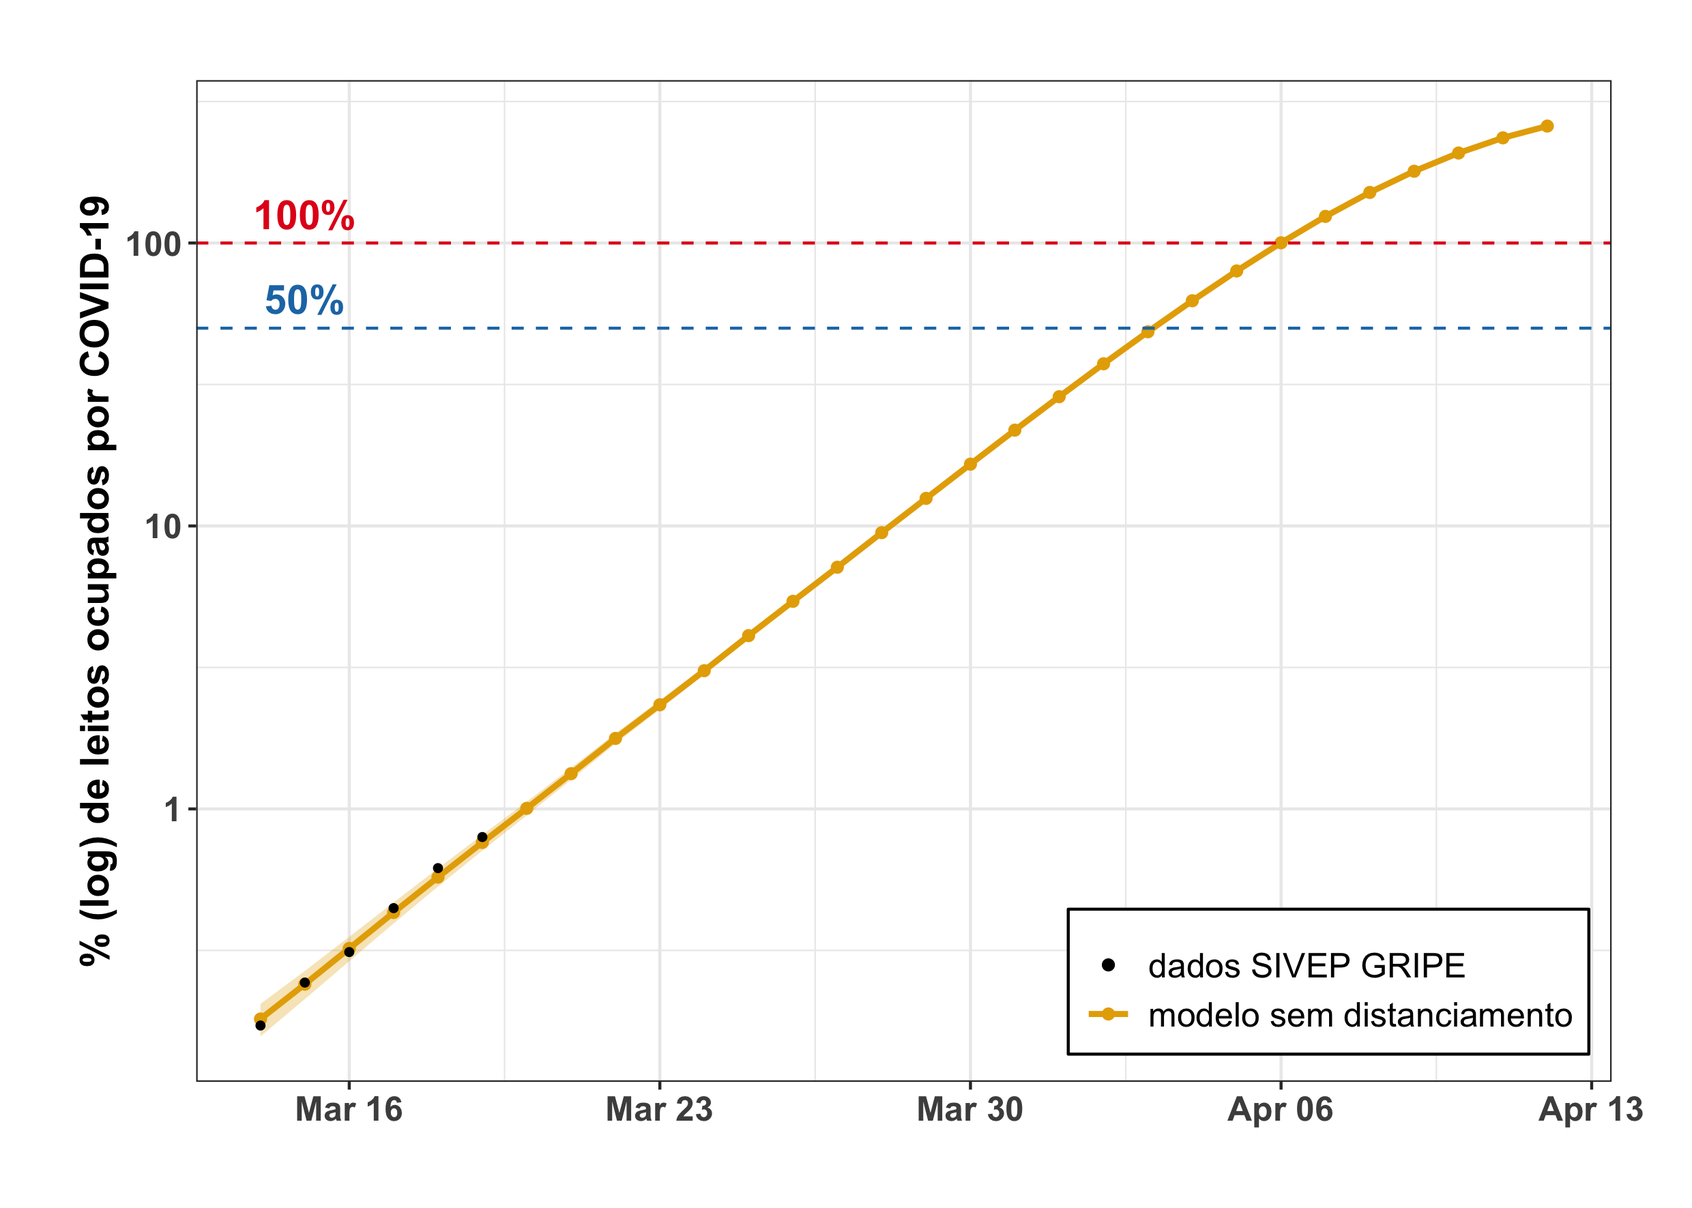
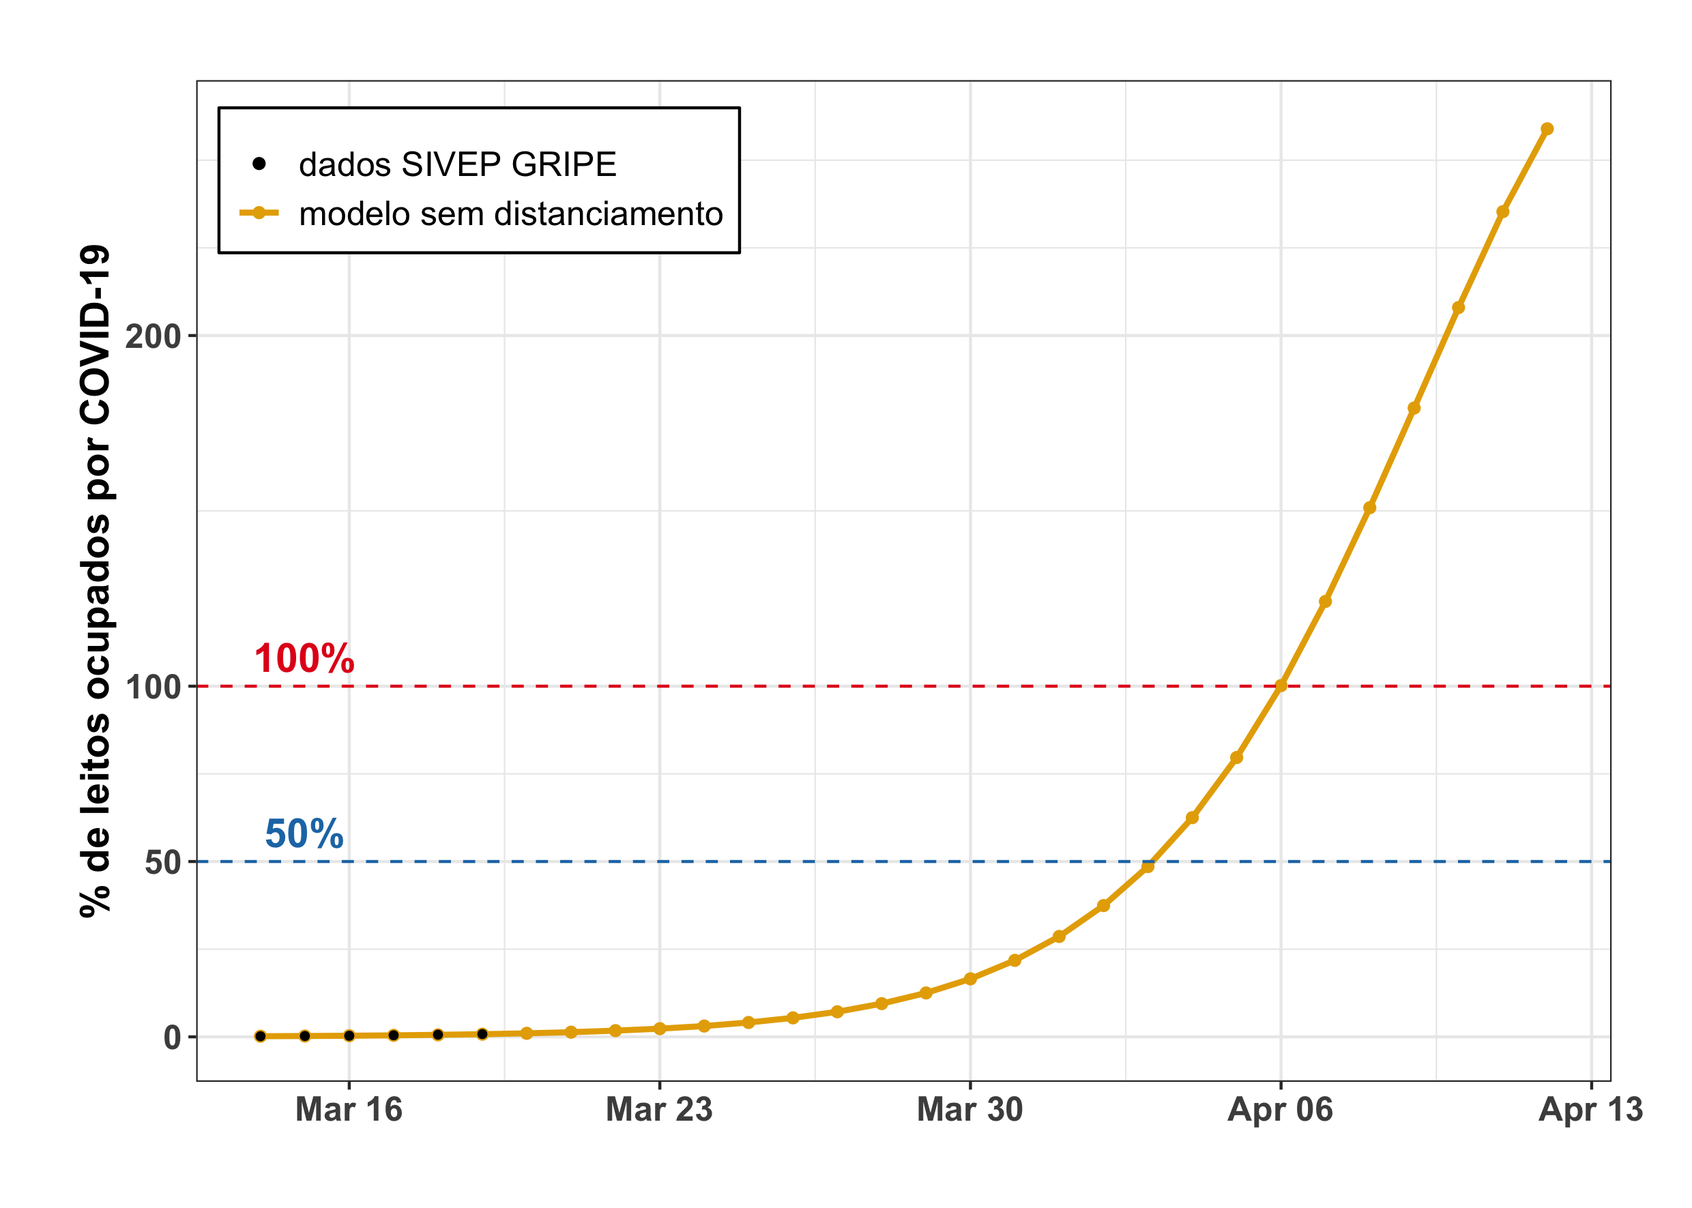
leitos figs A e B, 4 total

diff --git a/leitos.html b/leitos.html
@@ -2584,44 +2584,40 @@ window.FlexDashboardComponents.push({
 
 <div id="dashboard-container">
 
-<div id="row" class="section level2" data-height="400">
+<div id="row" class="section level2" data-height="850">
 <h2>Row</h2>
 <div id="em-quanto-tempo-100-dos-leitos-de-são-paulo-estariam-ocupados-com-covid-19-sem-distanciamento-social" class="section level3">
 <h3>Em quanto tempo 100% dos leitos de São Paulo estariam ocupados com COVID-19 sem distanciamento social?</h3>
-<p>No início da epidemia no município de São Paulo, a ocupação dos leitos com casos confirmados de COVID-19 era de 0.8% dos leitos totais (dia 19/03, dados da SIVEP-GRIPE) e o número de casos da doença duplicava rapidamente (a cada 2.4 dias, estimado entre os dias 14 e 19 de março). Usando estes dados, nosso modelo mostra que 100% dos leitos disponíveis em São Paulo seriam ocupados por pacientes de COVID-19 em apenas 18 dias (dia 6 de abril) <strong>se nenhuma medida de controle de contágio tivesse sido tomada</strong> e o número de leitos se mantivesse constante (<strong>Fig. 1</strong>). A simulação de leitos de UTI mostra resultados parecidos: sem nenhuma medida de controle, 100% dos leitos de UTI seriam ocupados somente com pacientes de COVID-19 em apenas 14 dias (<strong>Fig. 2</strong>).</p>
-<p><font size="3.5"><strong><em>Por que modelar um cenário sem distanciamento social?</em></strong></font></p>
-<p>Nosso modelo representa um cenário do desenvolvimento da epidemia de COVID-19 no município de São Paulo, caso as medidas de distanciamento social não tivessem sido tomadas. Apesar de hipotético, este modelo nos permite explorar o que aconteceria no município de São Paulo caso estas medidas não tivessem sido tomadas. Ao comparar os resultados do nosso modelo com a atual ocupação de leitos na cidade de São Paulo, podemos quantificar quantos leitos (e vidas!) as medidas de distanciamento social salvaram (trabalho em andamento). A comparação é importante, por exemplo, para o gestor público ter as condições necessárias para tomar a melhor decisão em termos de administração e de política pública, em especial em um momento de extrema gravidade como é o atual. Nosso modelo, apesar de hipotético, utiliza dados reais de número de leitos e de casos na cidade. Para representar o cenário sem medidas de distanciamento social, estimamos o tempo de duplicação da doença num período anterior a estas medidas em São Paulo (dias 14 a 19 de março, <strong>Fig. 1</strong>).</p>
+<p>No início da epidemia no município de São Paulo, a ocupação dos leitos com casos confirmados de COVID-19 era de 0.8% dos leitos totais (dia 19/03, dados da SIVEP-GRIPE) e o número de casos da doença duplicava rapidamente (a cada 2.4 dias, estimado entre os dias 14 e 19 de março). Usando estes dados, nosso modelo mostra que 100% dos leitos disponíveis em São Paulo seriam ocupados por pacientes de COVID-19 em apenas 18 dias (dia 6 de abril) <strong>se nenhuma medida de controle de contágio tivesse sido tomada</strong> e o número de leitos se mantivesse constante (<strong>Fig. 1A e 2A</strong>). A simulação de leitos de UTI mostra resultados parecidos: sem nenhuma medida de controle, 100% dos leitos de UTI seriam ocupados somente com pacientes de COVID-19 em apenas 14 dias (<strong>Fig. 1B e 2B</strong>).</p>
+<p><br/><br/> <font size="3.5"><strong><em>Por que modelar um cenário sem distanciamento social?</em></strong></font></p>
+<p>Nosso modelo representa um cenário do desenvolvimento da epidemia de COVID-19 no município de São Paulo, caso as medidas de distanciamento social não tivessem sido tomadas. Apesar de hipotético, este modelo nos permite explorar o que aconteceria no município de São Paulo caso estas medidas não tivessem sido tomadas. Ao comparar os resultados do nosso modelo com a atual ocupação de leitos na cidade de São Paulo, podemos quantificar quantos leitos (e vidas!) as medidas de distanciamento social salvaram (trabalho em andamento). A comparação é importante, por exemplo, para o gestor público ter as condições necessárias para tomar a melhor decisão em termos de administração e de política pública, em especial em um momento de extrema gravidade como é o atual. Nosso modelo, apesar de hipotético, utiliza dados reais de número de leitos e de casos na cidade. Para representar o cenário sem medidas de distanciamento social, estimamos o tempo de duplicação da doença num período anterior a estas medidas em São Paulo (dias 14 a 19 de março, <strong>Fig. 1A e 2A</strong>).</p>
+<p><br/><br/> <font size="3.5"><strong><em>É arriscado reduzir o isolamento social em municípios com mais de 50% dos leitos disponíveis?</em></strong></font></p>
+<p>Nosso modelo sugere que sim. Mesmo em cidades onde pacientes com COVID-19 ocupam atualmente uma porcentagem baixa dos leitos, a ocupação total de leitos pode ser atingida muito rapidamente sem medidas preventivas. Medidas preventivas, como o isolamento social, aumentam o tempo de duplicação da doença e, portanto, diminuem a velocidade de ocupação dos leitos de hospitais. Iniciar as medidas preventivas somente quando 50% dos leitos estiverem ocupados pode ser muito tarde, já que o número de hospitalizados por COVID-19 aumenta exponencialmente, e os efeitos de medidas preventivas podem demorar para afetar o número de hospitalizações por COVID-19.</p>
 </div>
 <div id="section" class="section level3">
 <h3></h3>
 <div class="figure">
-<img src="fig/leitos.png" alt="Fig. 1: Previsão da porcentagem de leitos totais ocupados por COVID-19 no município de São Paulo entre os dias 15/3 e 13/4 em um cenário sem distanciamento social. A linha e os pontos amarelos são os casos estimados pelo modelo, e os pontos pretos os casos reais de hospitalizados entre os dias 14 e 19/03 (dados do SIVEP-Gripe)." style="width:100.0%" />
-<p class="caption"><strong>Fig. 1</strong>: Previsão da porcentagem de leitos totais ocupados por COVID-19 no município de São Paulo entre os dias 15/3 e 13/4 em um cenário sem distanciamento social. A linha e os pontos amarelos são os casos estimados pelo modelo, e os pontos pretos os casos reais de hospitalizados entre os dias 14 e 19/03 (dados do SIVEP-Gripe).</p>
+<img src="fig/leitos_e_UTI_log.png" alt="Fig. 1: Previsão da porcentagem (em escala logarítmica) de (A) leitos totais e (B) UTI ocupados por COVID-19 no município de São Paulo entre os dias 15/03 e 13/04 em um cenário sem distanciamento social. A linha e os pontos amarelos são os casos estimados pelo modelo, e os pontos pretos os casos reais de hospitalizados entre os dias 14 e 19/03 (dados do SIVEP-Gripe)." style="width:100.0%" />
+<p class="caption"><strong>Fig. 1</strong>: Previsão da porcentagem (em escala logarítmica) de <strong>(A)</strong> leitos totais e <strong>(B)</strong> UTI ocupados por COVID-19 no município de São Paulo entre os dias 15/03 e 13/04 em um cenário sem distanciamento social. A linha e os pontos amarelos são os casos estimados pelo modelo, e os pontos pretos os casos reais de hospitalizados entre os dias 14 e 19/03 (dados do SIVEP-Gripe).</p>
 </div>
 </div>
 </div>
-<div id="row-1" class="section level2" data-height="400">
-<h2>Row</h2>
-<div id="é-arriscado-reduzir-o-isolamento-social-em-municípios-com-mais-de-50-dos-leitos-disponíveis" class="section level3">
-<h3>É arriscado reduzir o isolamento social em municípios com mais de 50% dos leitos disponíveis?</h3>
-<p>Nosso modelo sugere que sim. Mesmo em cidades onde pacientes com COVID-19 ocupam atualmente uma porcentagem baixa dos leitos, a ocupação total de leitos pode ser atingida muito rapidamente sem medidas preventivas. Medidas preventivas, como o isolamento social, aumentam o tempo de duplicação da doença e, portanto, diminuem a velocidade de ocupação dos leitos de hospitais. Iniciar as medidas preventivas somente quando 50% dos leitos estiverem ocupados pode ser muito tarde, já que o número de hospitalizados por COVID-19 aumenta exponencialmente, e os efeitos de medidas preventivas podem demorar para afetar o número de hospitalizações por COVID-19.</p>
-</div>
-<div id="section-1" class="section level3">
-<h3></h3>
-<div class="figure">
-<img src="fig/leitos_UTI.png" alt="Fig. 2: Previsão da porcentagem de leitos de UTI ocupados por COVID-19 no município de São Paulo entre os dias 15/3 e 13/4 em um cenário sem distanciamento social. A linha e os pontos amarelos são os casos estimados pelo modelo (dados do SIVEP-Gripe)." style="width:100.0%" />
-<p class="caption"><strong>Fig. 2</strong>: Previsão da porcentagem de leitos de UTI ocupados por COVID-19 no município de São Paulo entre os dias 15/3 e 13/4 em um cenário sem distanciamento social. A linha e os pontos amarelos são os casos estimados pelo modelo (dados do SIVEP-Gripe).</p>
-</div>
-</div>
-</div>
-<div id="row-2" class="section level2">
+<div id="row-1" class="section level2" data-height="850">
 <h2>Row</h2>
 <div id="método" class="section level3">
 <h3>Método</h3>
 <p>Usamos um modelo logístico para simular os números de infectados, suscetíveis e hospitalizados por classe etária, de acordo com a distribuição etária da população do município de São Paulo. Utilizamos os números de hospitalizados por faixa etária entre os dias 14 e 19 de março (período anterior às medidas de quarentena, que entraram em vigor dis 24 de março, <em>Ref. 1</em>) do sistema SIVEP-Gripe para a cidade de São Paulo para ajustar os valores dos parâmetros do modelo aos dados observados usando um método de ajuste bayesiano. O tempo de duplicação que melhor se ajustou aos dados observados neste período foi de 2.4 dias. Usamos este valor inicial de tempo de duplicação (2.4 dias) para projetar o número de hospitalizados para os dias subsequentes (20 de março a 13 de abril). A taxa de crescimento da doença, contudo, não é uma constante, e varia no modelo de acordo com o número de não infectados no tempo t. Para a estimativa de número de infectados, utilizamos a distribuição etária de hospitalizados proposta na <em>Ref. 2</em>. A conversão de hospitalizados em pessoas que necessitam de leitos de UTI foi feita conforme a distribuição etária de pacientes hospitalizados que necessitam de UTI proposta na <em>Ref. 3</em>. Nós não consideramos possíveis mudanças no tempo de duplicação devido às medidas de distanciamento social. Desta forma, nós não consideramos grandes variações e incertezas no tempo de duplicação.</p>
+<p><font size="3.5"><strong><em>Referências</em></strong></font></p>
 <p>[<em>Ref. 1</em>] Governo de SP determina quarentena em todo o Estado <a href="https://www.saopaulo.sp.gov.br/ultimas-noticias/ao-vivo-governo-de-sp-anuncia-novas-medidas-para-combate-ao-coronavirus-no-estado/" class="uri">https://www.saopaulo.sp.gov.br/ultimas-noticias/ao-vivo-governo-de-sp-anuncia-novas-medidas-para-combate-ao-coronavirus-no-estado/</a></p>
 <p>[<em>Ref. 2</em>] Verity, R., Okell, L.C., Dorigatti, I., <em>et al.</em> Estimates of the severity of COVID-19 disease. <em>medRxiv</em> 2020.03.09.20033357. DOI: <a href="https://doi.org/10.1101/2020.03.09.20033357" class="uri">https://doi.org/10.1101/2020.03.09.20033357</a></p>
 <p>[<em>Ref. 3</em>] Severe Outcomes Among Patients with Coronavirus Disease 2019 (COVID-19), United States, February 12 – March 16, 2020. <em>Morb Mortal Wkly Rep</em> 2020; 69:343-346. DOI: <a href="http://dx.doi.org/10.15585/mmwr.mm6912e2external" class="uri">http://dx.doi.org/10.15585/mmwr.mm6912e2external</a></p>
+</div>
+<div id="section-1" class="section level3">
+<h3></h3>
+<div class="figure">
+<img src="fig/leitos_e_UTI.png" alt="Fig. 2: Previsão da porcentagem de (A) leitos totais e (B) UTI ocupados por COVID-19 no município de São Paulo entre os dias 15/03 e 13/04 em um cenário sem distanciamento social. A linha e os pontos amarelos são os casos estimados pelo modelo, e os pontos pretos os casos reais de hospitalizados entre os dias 14 e 19/03 (dados do SIVEP-Gripe)." style="width:100.0%" />
+<p class="caption"><strong>Fig. 2</strong>: Previsão da porcentagem de <strong>(A)</strong> leitos totais e <strong>(B)</strong> UTI ocupados por COVID-19 no município de São Paulo entre os dias 15/03 e 13/04 em um cenário sem distanciamento social. A linha e os pontos amarelos são os casos estimados pelo modelo, e os pontos pretos os casos reais de hospitalizados entre os dias 14 e 19/03 (dados do SIVEP-Gripe).</p>
+</div>
 </div>
 </div>
 

diff --git a/_src/leitos.md b/_src/leitos.md
@@ -23,43 +23,36 @@ output:
 ---
 
 
-Row  {data-height=400}
+Row  {data-height=850}
 ---------------------
   
 ### Em quanto tempo 100% dos leitos de São Paulo estariam ocupados com COVID-19 sem distanciamento social?
   
-No início da epidemia no município de São Paulo, a ocupação dos leitos com casos confirmados de COVID-19 era de 0.8% dos leitos totais (dia 19/03, dados da SIVEP-GRIPE) e o número de casos da doença duplicava rapidamente (a cada 2.4 dias, estimado entre os dias 14 e 19 de março). Usando estes dados, nosso modelo mostra que 100% dos leitos disponíveis em São Paulo seriam ocupados por pacientes de COVID-19 em apenas 18 dias (dia 6 de abril) **se nenhuma medida de controle de contágio tivesse sido tomada** e o número de leitos se mantivesse constante (**Fig. 1**). A simulação de leitos de UTI mostra resultados parecidos: sem nenhuma medida de controle, 100% dos leitos de UTI seriam ocupados somente com pacientes de COVID-19 em apenas 14 dias (**Fig. 2**).
+No início da epidemia no município de São Paulo, a ocupação dos leitos com casos confirmados de COVID-19 era de 0.8% dos leitos totais (dia 19/03, dados da SIVEP-GRIPE) e o número de casos da doença duplicava rapidamente (a cada 2.4 dias, estimado entre os dias 14 e 19 de março). Usando estes dados, nosso modelo mostra que 100% dos leitos disponíveis em São Paulo seriam ocupados por pacientes de COVID-19 em apenas 18 dias (dia 6 de abril) **se nenhuma medida de controle de contágio tivesse sido tomada** e o número de leitos se mantivesse constante (**Fig. 1A e 2A**). A simulação de leitos de UTI mostra resultados parecidos: sem nenhuma medida de controle, 100% dos leitos de UTI seriam ocupados somente com pacientes de COVID-19 em apenas 14 dias (**Fig. 1B e 2B**).
 
-
+<br/><br/>
  <font size="3.5">***Por que modelar um cenário sem distanciamento social?***</font>
 
-Nosso modelo representa um cenário do desenvolvimento da epidemia de COVID-19 no município de São Paulo, caso as medidas de distanciamento social não tivessem sido tomadas. Apesar de hipotético, este modelo nos permite explorar o que aconteceria no município de São Paulo caso estas medidas não tivessem sido tomadas. Ao comparar os resultados do nosso modelo com a atual ocupação de leitos na cidade de São Paulo, podemos quantificar quantos leitos (e vidas!) as medidas de distanciamento social salvaram (trabalho em andamento). A comparação é importante, por exemplo, para o gestor público ter as condições necessárias para tomar a melhor decisão em termos de administração e de política pública, em especial em um momento de extrema gravidade como é o atual. Nosso modelo, apesar de hipotético, utiliza dados reais de número de leitos e de casos na cidade. Para representar o cenário sem medidas de distanciamento social, estimamos o tempo de duplicação da doença num período anterior a estas medidas em São Paulo (dias 14 a 19 de março, **Fig. 1**).
+Nosso modelo representa um cenário do desenvolvimento da epidemia de COVID-19 no município de São Paulo, caso as medidas de distanciamento social não tivessem sido tomadas. Apesar de hipotético, este modelo nos permite explorar o que aconteceria no município de São Paulo caso estas medidas não tivessem sido tomadas. Ao comparar os resultados do nosso modelo com a atual ocupação de leitos na cidade de São Paulo, podemos quantificar quantos leitos (e vidas!) as medidas de distanciamento social salvaram (trabalho em andamento). A comparação é importante, por exemplo, para o gestor público ter as condições necessárias para tomar a melhor decisão em termos de administração e de política pública, em especial em um momento de extrema gravidade como é o atual. Nosso modelo, apesar de hipotético, utiliza dados reais de número de leitos e de casos na cidade. Para representar o cenário sem medidas de distanciamento social, estimamos o tempo de duplicação da doença num período anterior a estas medidas em São Paulo (dias 14 a 19 de março, **Fig. 1A e 2A**).
 
-
-### 
-
-![**Fig. 1**: Previsão da porcentagem de leitos totais ocupados por COVID-19 no município de São Paulo entre os dias 15/3 e 13/4 em um cenário sem distanciamento social. A linha e os pontos amarelos são os casos estimados pelo modelo, e os pontos pretos os casos reais de hospitalizados entre os dias 14 e 19/03 (dados do SIVEP-Gripe).](fig/leitos.png){ width=100% }
-
-
-
-Row {data-height=400}
---------------------
-
-### É arriscado reduzir o isolamento social em municípios com mais de 50% dos leitos disponíveis?
+<br/><br/>
+ <font size="3.5">***É arriscado reduzir o isolamento social em municípios com mais de 50% dos leitos disponíveis?***</font>
 
 Nosso modelo sugere que sim. Mesmo em cidades onde pacientes com COVID-19 ocupam atualmente uma porcentagem baixa dos leitos, a ocupação total de leitos pode ser atingida muito rapidamente sem medidas preventivas. Medidas preventivas, como o isolamento social, aumentam o tempo de duplicação da doença e, portanto, diminuem a velocidade de ocupação dos leitos de hospitais. Iniciar as medidas preventivas somente quando 50% dos leitos estiverem ocupados pode ser muito tarde, já que o número de hospitalizados por COVID-19 aumenta exponencialmente, e os efeitos de medidas preventivas podem demorar para afetar o número de hospitalizações por COVID-19. 
   
-
 ### 
 
-![**Fig. 2**: Previsão da porcentagem de leitos de UTI ocupados por COVID-19 no município de São Paulo entre os dias 15/3 e 13/4 em um cenário sem distanciamento social. A linha e os pontos amarelos são os casos estimados pelo modelo (dados do SIVEP-Gripe).](fig/leitos_UTI.png){ width=100% }
+![**Fig. 1**: Previsão da porcentagem (em escala logarítmica) de  **(A)** leitos totais e **(B)**  UTI ocupados por COVID-19 no município de São Paulo entre os dias 15/03 e 13/04 em um cenário sem distanciamento social. A linha e os pontos amarelos são os casos estimados pelo modelo, e os pontos pretos os casos reais de hospitalizados entre os dias 14 e 19/03 (dados do SIVEP-Gripe).](fig/leitos_e_UTI_log.png){ width=100% }
 
 
-Row 
---------------------
+
+Row  {data-height=850}
+---------------------
 ### Método
 
 Usamos um modelo logístico para simular os números de infectados, suscetíveis e hospitalizados por classe etária, de acordo com a distribuição etária da população do município de São Paulo. Utilizamos os números de hospitalizados por faixa etária entre os dias 14 e 19 de março (período anterior às medidas de quarentena, que entraram em vigor dis 24 de março, *Ref. 1*) do sistema SIVEP-Gripe para a cidade de São Paulo para ajustar os valores dos parâmetros do modelo aos dados observados usando um método de ajuste bayesiano. O tempo de duplicação que melhor se ajustou aos dados observados neste período foi de 2.4 dias. Usamos este valor inicial de tempo de duplicação (2.4 dias) para projetar o número de hospitalizados para os dias subsequentes (20 de março a 13 de abril). A taxa de crescimento da doença, contudo, não é uma constante, e varia no modelo de acordo com o número de não infectados no tempo t. Para a estimativa de número de infectados, utilizamos a distribuição etária de hospitalizados proposta na *Ref. 2*. A conversão de hospitalizados em pessoas que necessitam de leitos de UTI foi feita conforme a distribuição etária de pacientes hospitalizados que necessitam de UTI proposta na *Ref. 3*. Nós não consideramos possíveis mudanças no tempo de duplicação devido às medidas de distanciamento social. Desta forma, nós não consideramos grandes variações e incertezas no tempo de duplicação.
+
+<font size="3.5">***Referências***</font>
 
 [*Ref. 1*] Governo de SP determina quarentena em todo o Estado https://www.saopaulo.sp.gov.br/ultimas-noticias/ao-vivo-governo-de-sp-anuncia-novas-medidas-para-combate-ao-coronavirus-no-estado/
 
@@ -67,4 +60,7 @@ Usamos um modelo logístico para simular os números de infectados, suscetíveis
 
 [*Ref. 3*] Severe Outcomes Among Patients with Coronavirus Disease 2019 (COVID-19), United States, February 12 – March 16, 2020. *Morb Mortal Wkly Rep* 2020; 69:343-346. DOI: http://dx.doi.org/10.15585/mmwr.mm6912e2external
 
+### 
+
+![**Fig. 2**: Previsão da porcentagem de **(A)** leitos totais e **(B)** UTI ocupados por COVID-19 no município de São Paulo entre os dias 15/03 e 13/04 em um cenário sem distanciamento social. A linha e os pontos amarelos são os casos estimados pelo modelo, e os pontos pretos os casos reais de hospitalizados entre os dias 14 e 19/03 (dados do SIVEP-Gripe).](fig/leitos_e_UTI.png){ width=100% }
 
